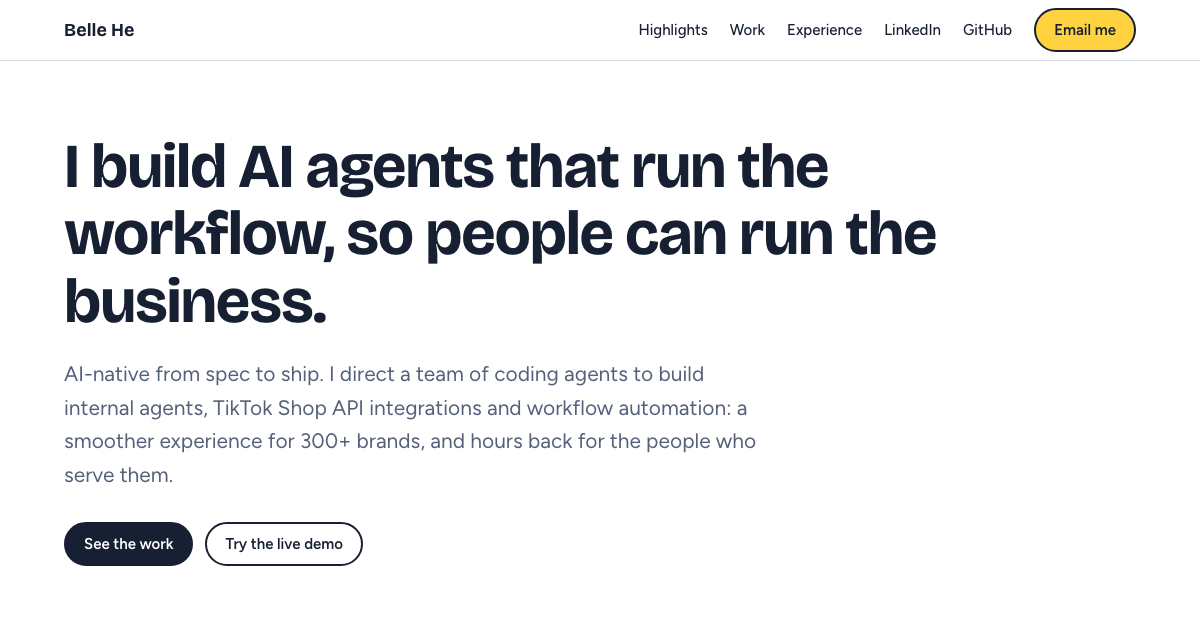
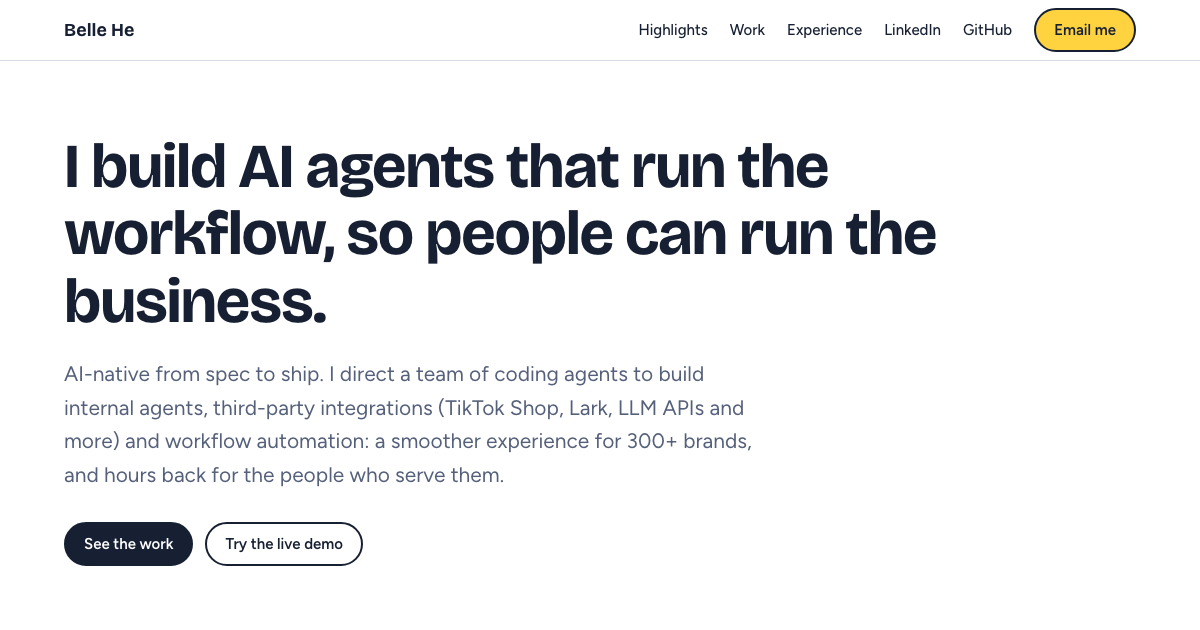
Home page: name third-party integrations

Changed region(s): [[0.0617, 0.6333, 0.6475, 0.7841]]

diff --git a/index.html b/index.html
@@ -34,7 +34,7 @@
     <div class="wrap">
       <div>
         <h1>I build AI agents that run the workflow, so people can run the business.</h1>
-        <p class="lede">AI-native from spec to ship. I direct a team of coding agents to build internal agents, TikTok Shop API integrations and workflow automation: a smoother experience for 300+ brands, and hours back for the people who serve them.</p>
+        <p class="lede">AI-native from spec to ship. I direct a team of coding agents to build internal agents, third-party integrations (TikTok Shop, Lark, LLM APIs and more) and workflow automation: a smoother experience for 300+ brands, and hours back for the people who serve them.</p>
         <div class="actions">
           <a class="btn" href="#work">See the work</a>
           <a class="btn plain" href="shop-audit/">Try the live demo</a>
